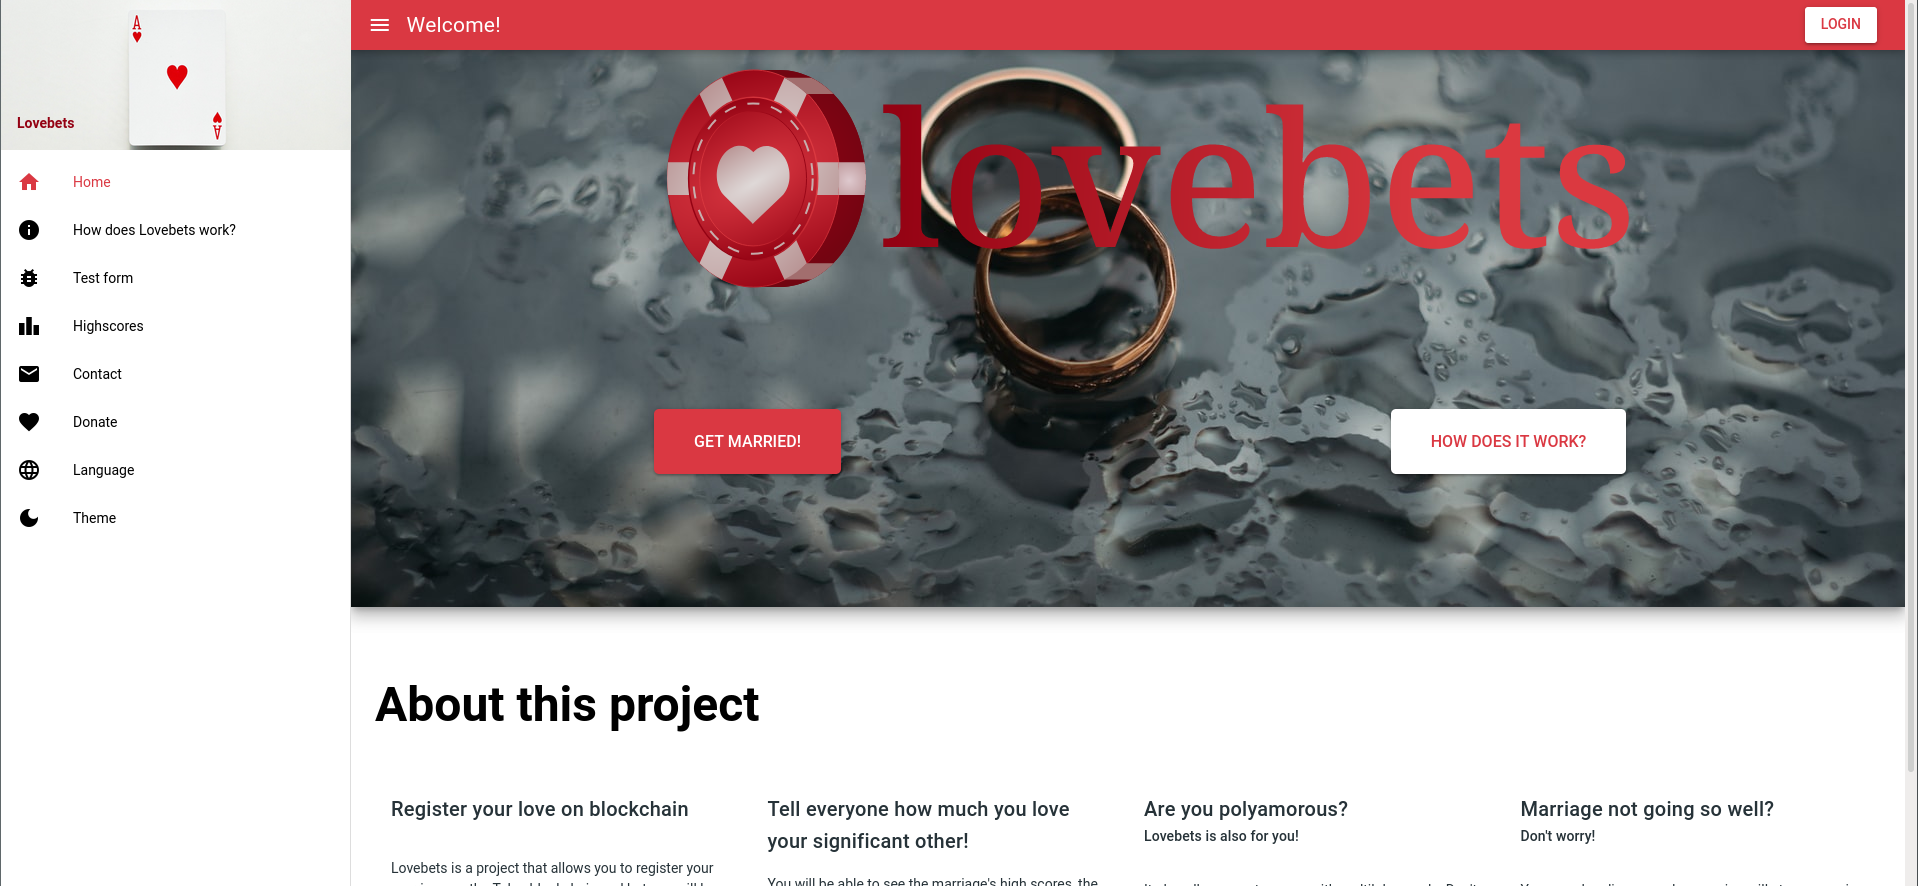
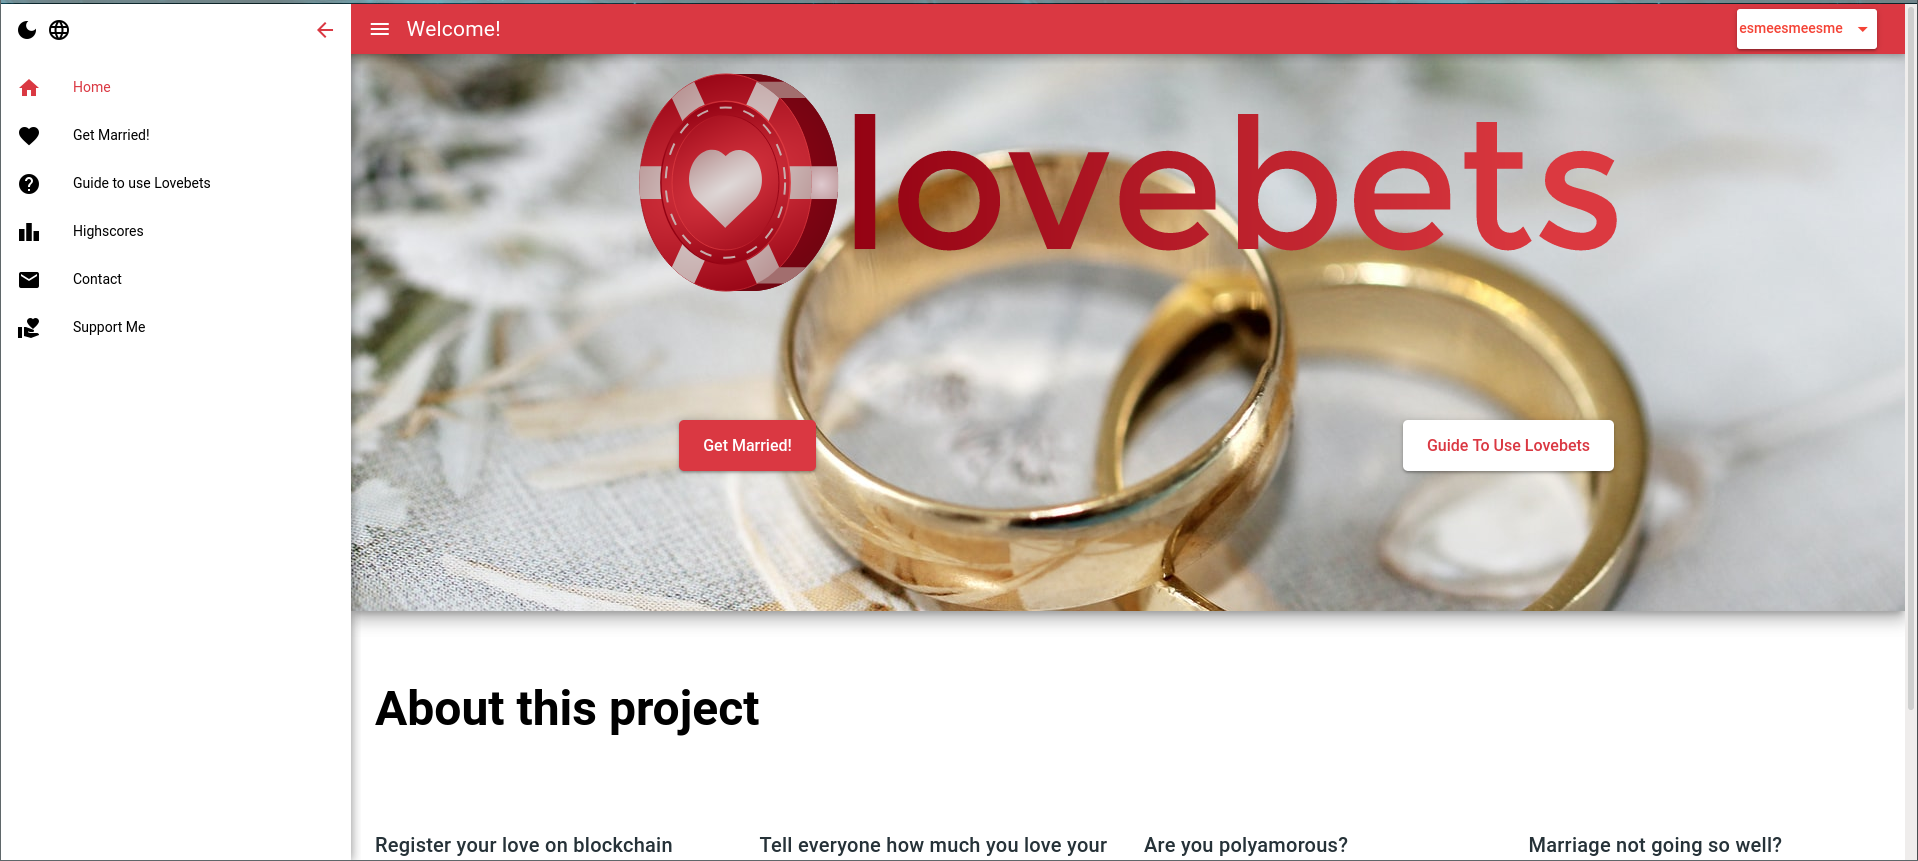
Modified Lovebets description and updated home page photo.

diff --git a/index.html b/index.html
@@ -386,17 +386,24 @@
                                     <h2 class="text-uppercase">Lovebets</h2>
                                     <p class="item-intro text-muted">Register your love on blockchain.</p>
                                     <img class="img-fluid d-block mx-auto" src="assets/img/portfolio/lovebets_home.png" alt="..." />
-                                    <p>Lovebets is a project that allows you to register your marriage on the Telos blockchain, and bet that you will be together until death do you part.</p>
-                                    <button class="btn btn-secondary btn-xl text-uppercase" data-bs-dismiss="modal" type="button">
-                                        <i class="fas fa-times me-1"></i>
-                                        Close Project
-                                    </button>
+                                    <p>Lovebets is a project that allows you to register your marriage on the Telos blockchain, and bet that you will be together until death do you part. The smart contract code is written in C++, the tests are written in Python and the UI was made using Vue framework.</p>
 
                                     <a href="https://github.com/esmegl/love_bets_contracts">
                                         <button class="btn btn-primary btn-xl text-uppercase" type="button">
-                                            Github repository
+                                            Smart contract code
                                         </button>
                                     </a>
+
+                                    <a href="https://github.com/esmegl/lovebets-ui">
+                                      <button class="btn btn-success btn-xl text-uppercase" type="button">
+                                          UI code
+                                      </button>
+                                    </a>
+
+                                    <button class="btn btn-xl text-uppercase" data-bs-dismiss="modal" type="button">
+                                        Close
+                                    </button>
+
                                 </div>
                             </div>
                         </div>
